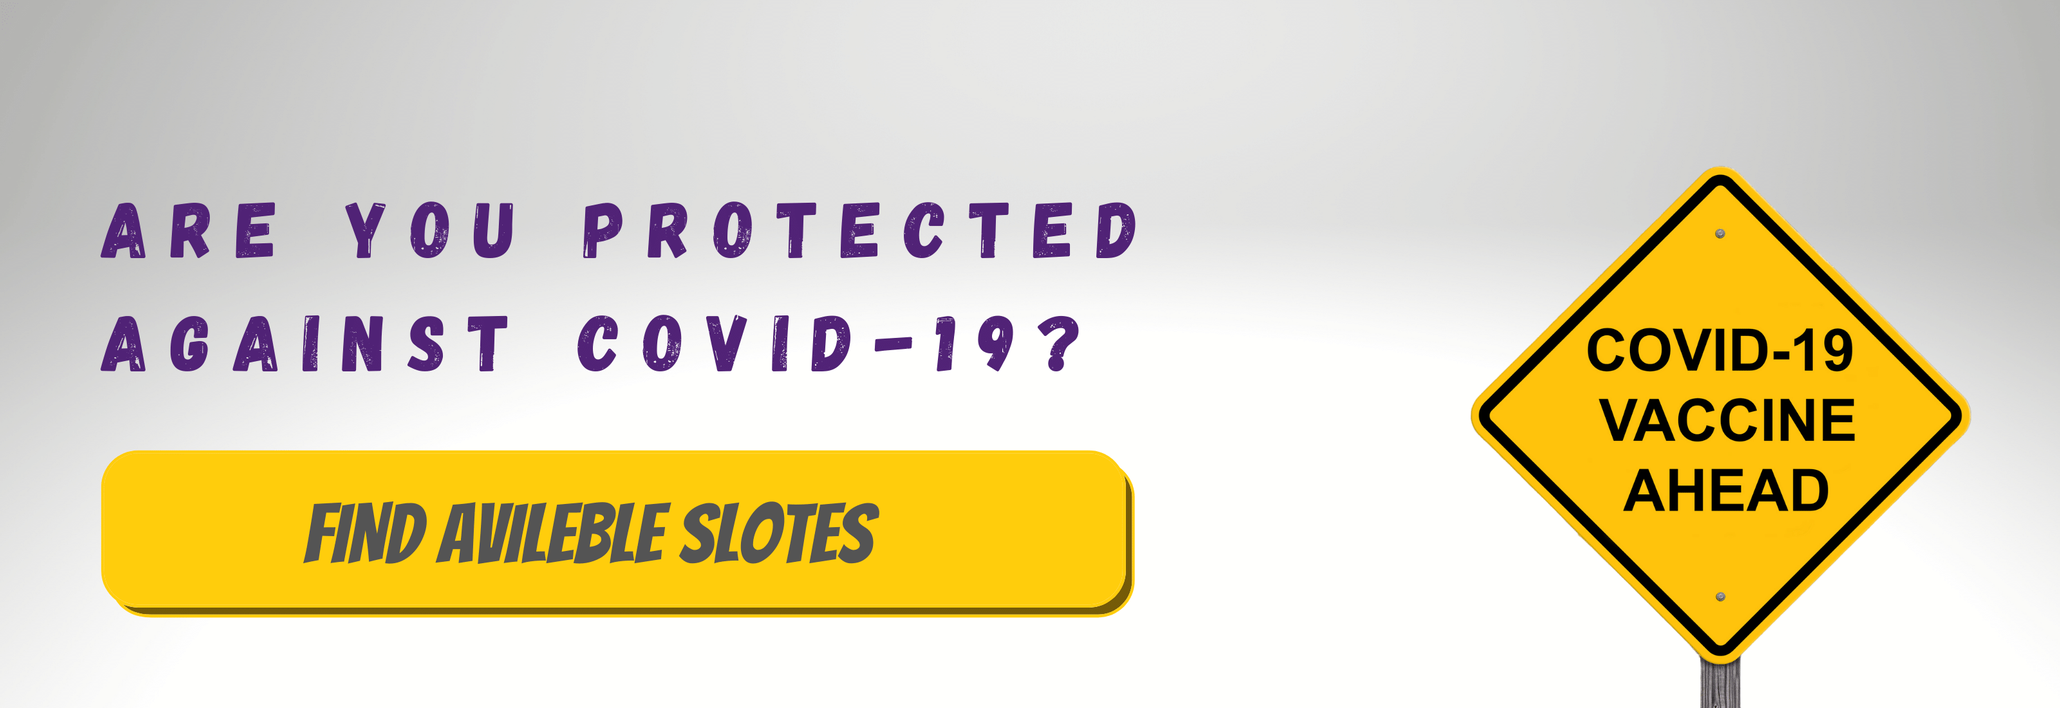
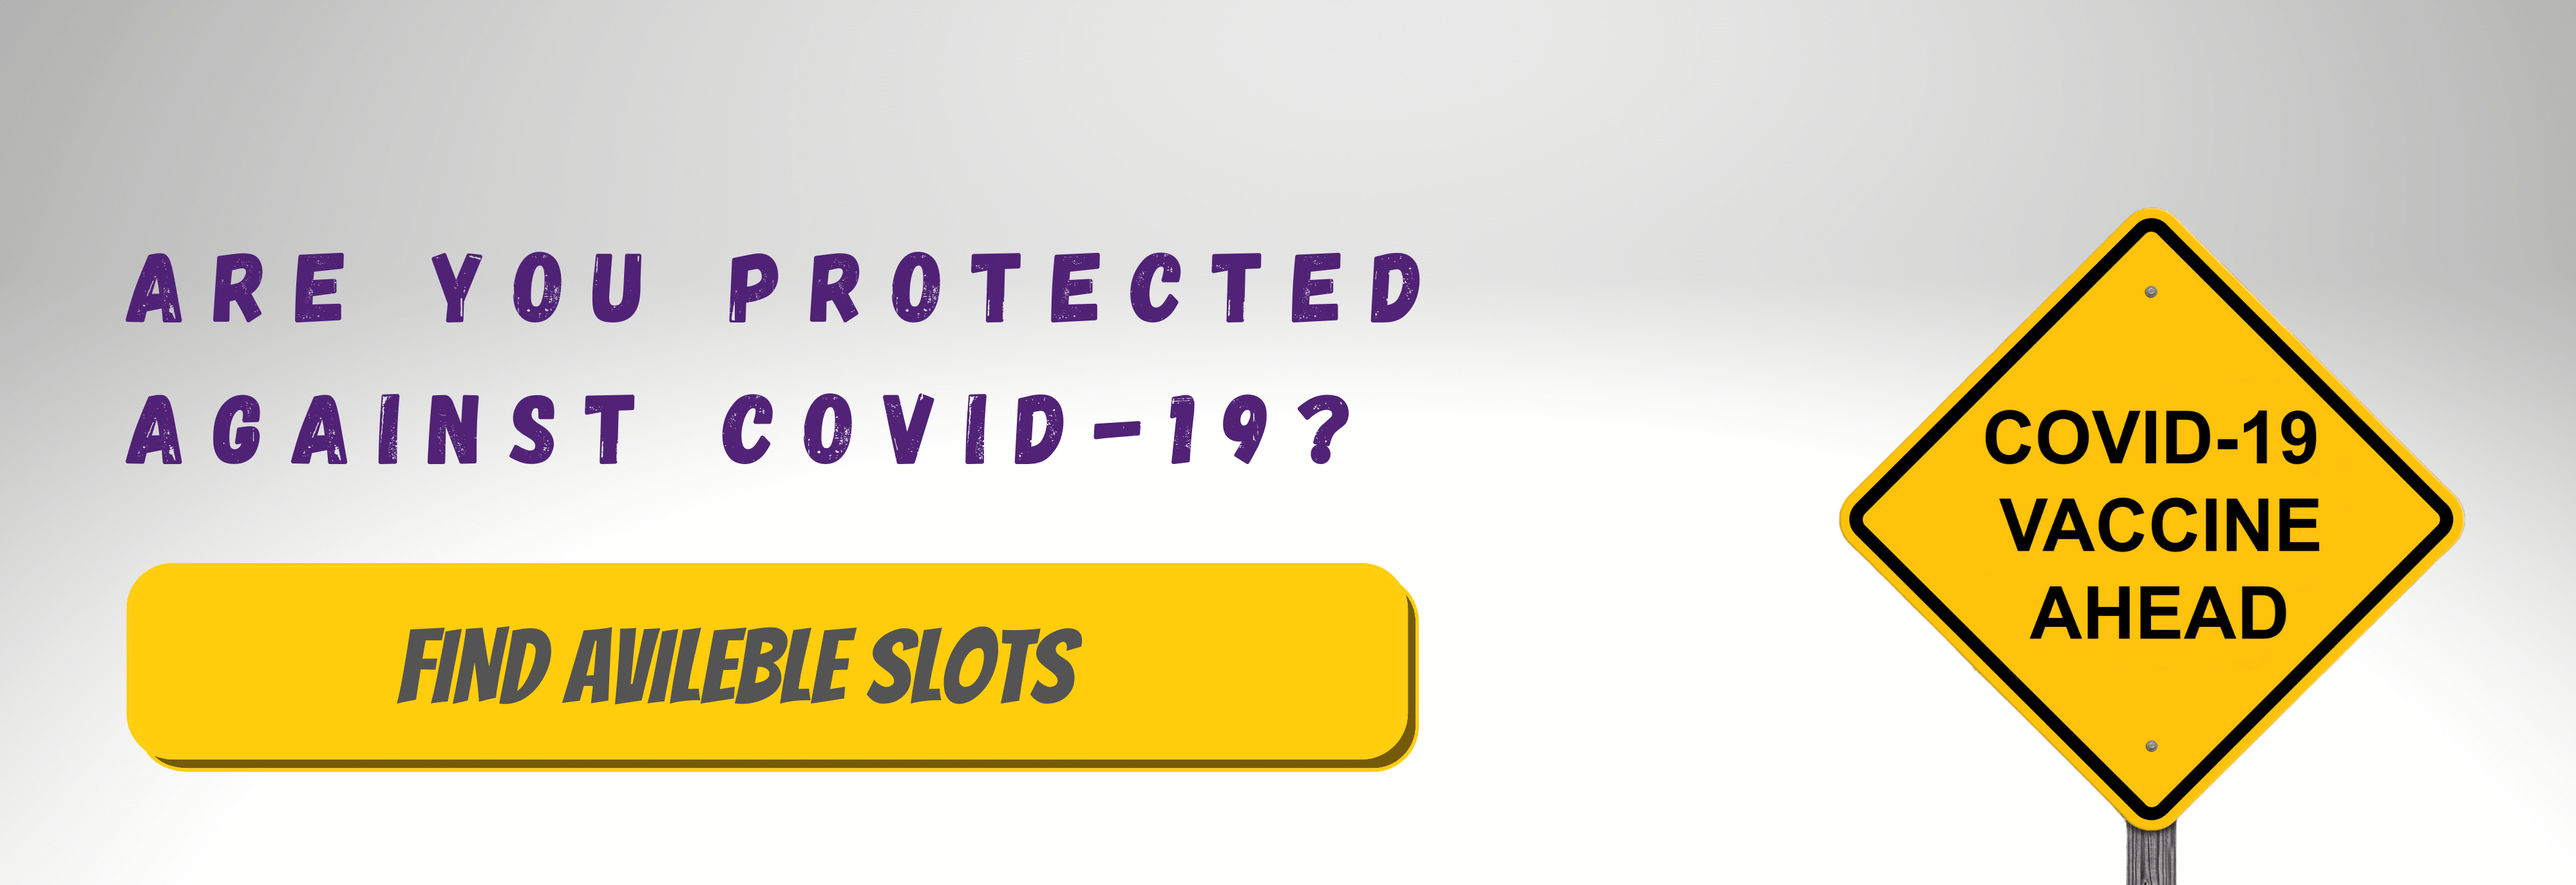
add booking button

Changed region(s): [[0.125, 0.7109, 0.4375, 0.8036]]

diff --git a/pin.html b/pin.html
@@ -62,6 +62,9 @@
     </table>
 </div>
   </div>
+  <div class="container p-5" style="display: flex;justify-content: center; ">
+    <a href="https://selfregistration.cowin.gov.in/"> <img src="./button.png" style="height: 50px;height: 100px;" alt=""></a>
+  </div>
    <!-- Footer -->
 <footer class="bg-dark text-center fixed-bottom  ">
   <!-- Grid container -->

diff --git a/dist.html b/dist.html
@@ -83,6 +83,9 @@
     </table>
 
   </div>
+  <div class="container p-5" style="display: flex;justify-content: center; ">
+    <a href="https://selfregistration.cowin.gov.in/"> <img src="./button.png" style="height: 50px;height: 100px;" alt=""></a>
+  </div>
   <!-- Footer -->
 <footer class="bg-dark text-center fixed-bottom  ">
   <!-- Grid container -->
